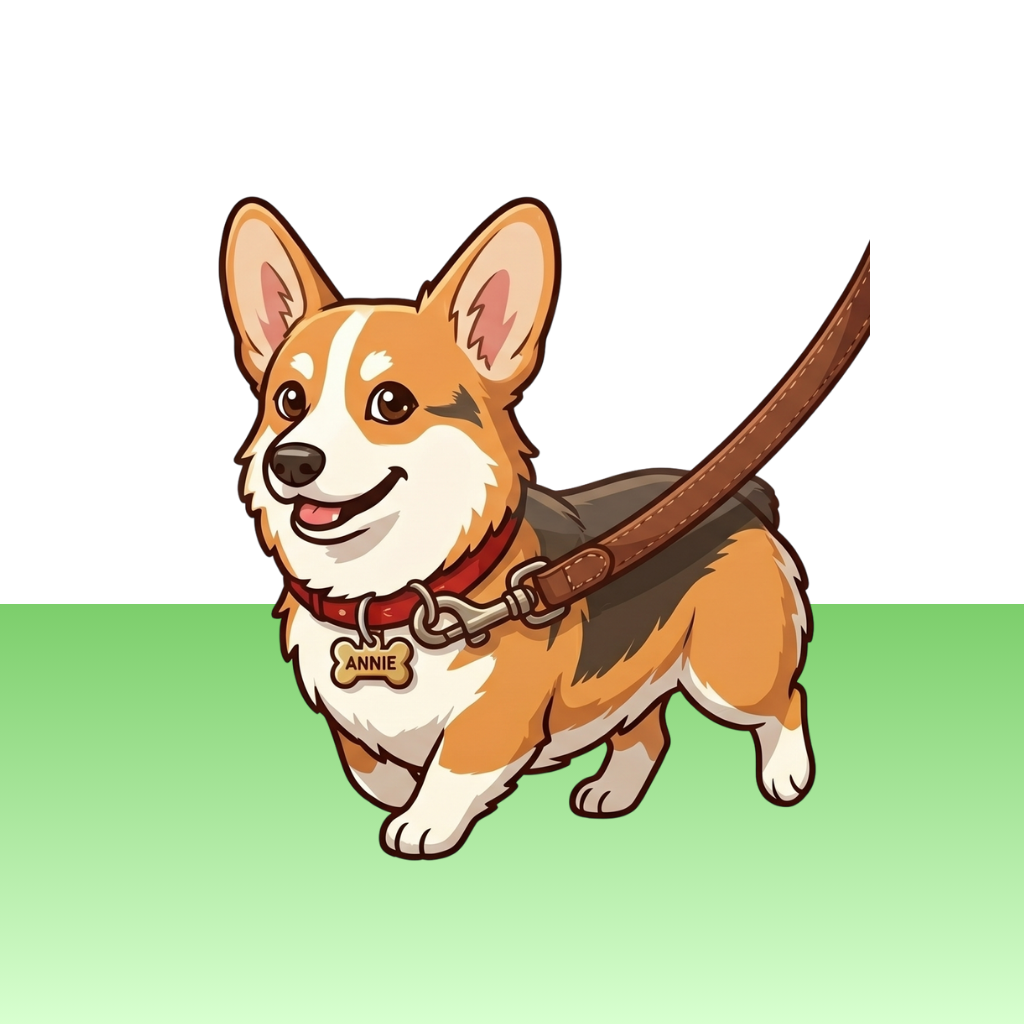
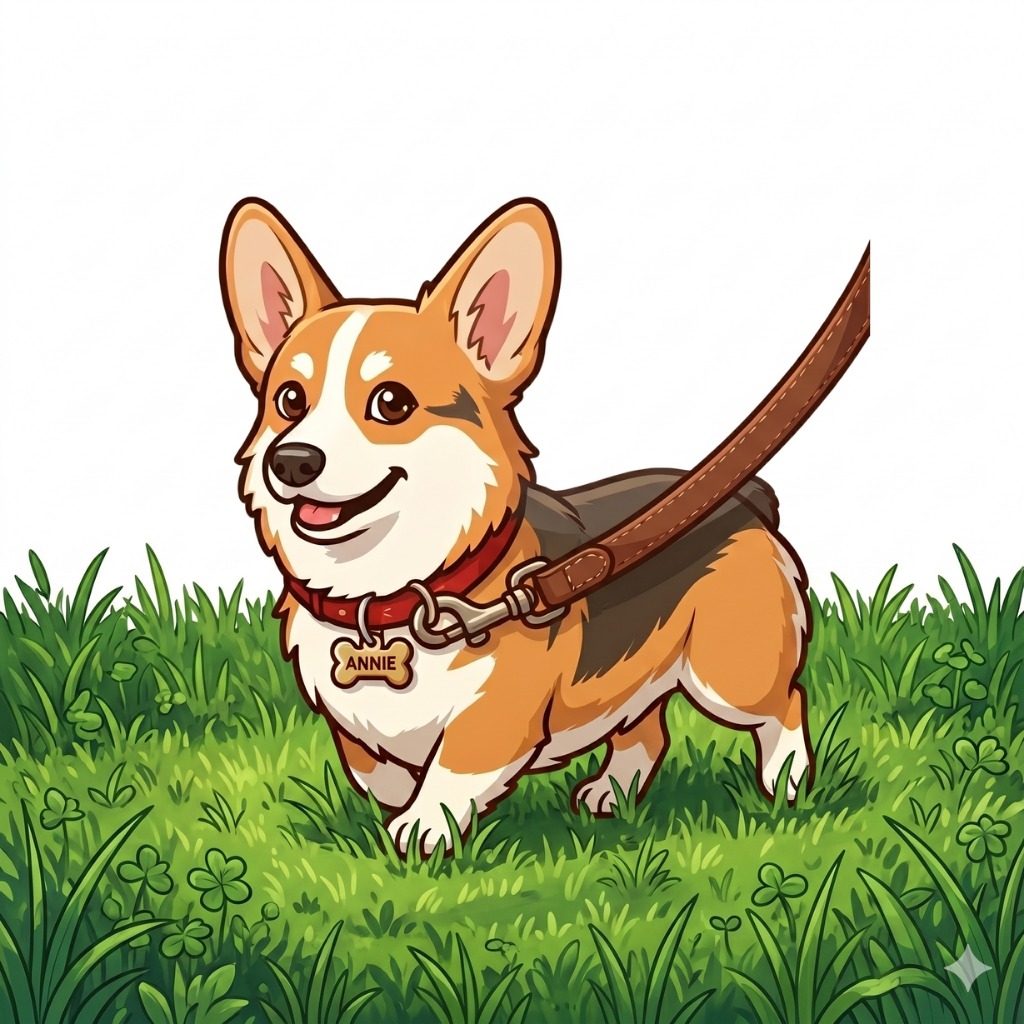
aabビルド

diff --git a/src/components/walk/WalkMemoModal.js b/src/components/walk/WalkMemoModal.js
@@ -1,11 +1,11 @@
-import React from 'react';
+import React, { useEffect, useState } from 'react';
 import {
   Modal,
   View,
   Text,
   TextInput,
   TouchableOpacity,
-  KeyboardAvoidingView,
+  Keyboard,
   Platform,
   ActivityIndicator,
   StyleSheet,
@@ -29,18 +29,41 @@ export default function WalkMemoModal({
   const insets = useSafeAreaInsets();
   const styles = useThemedStyles(createStyles);
   const sheetBottomPadding = Math.max(24, insets.bottom + 16);
+  const [keyboardInset, setKeyboardInset] = useState(0);
+
+  useEffect(() => {
+    if (!visible) {
+      setKeyboardInset(0);
+      return undefined;
+    }
+
+    const showEvent = Platform.OS === 'ios' ? 'keyboardWillShow' : 'keyboardDidShow';
+    const hideEvent = Platform.OS === 'ios' ? 'keyboardWillHide' : 'keyboardDidHide';
+
+    const showListener = Keyboard.addListener(showEvent, (event) => {
+      setKeyboardInset(event.endCoordinates.height);
+    });
+    const hideListener = Keyboard.addListener(hideEvent, () => {
+      setKeyboardInset(0);
+    });
+
+    return () => {
+      showListener.remove();
+      hideListener.remove();
+    };
+  }, [visible]);
 
   return (
     <Modal visible={visible} animationType="slide" transparent onRequestClose={onCancel}>
-      <KeyboardAvoidingView
-        style={styles.overlay}
-        behavior={Platform.OS === 'ios' ? 'padding' : undefined}
-      >
+      <View style={styles.overlay}>
         <TouchableOpacity style={styles.backdrop} activeOpacity={1} onPress={onCancel} />
         <View
           style={[
             styles.sheet,
-            { backgroundColor: currentTheme.card, paddingBottom: sheetBottomPadding },
+            {
+              backgroundColor: currentTheme.card,
+              paddingBottom: sheetBottomPadding + keyboardInset,
+            },
           ]}
         >
           <View style={styles.header}>
@@ -88,7 +111,7 @@ export default function WalkMemoModal({
             </TouchableOpacity>
           </View>
         </View>
-      </KeyboardAvoidingView>
+      </View>
     </Modal>
   );
 }
